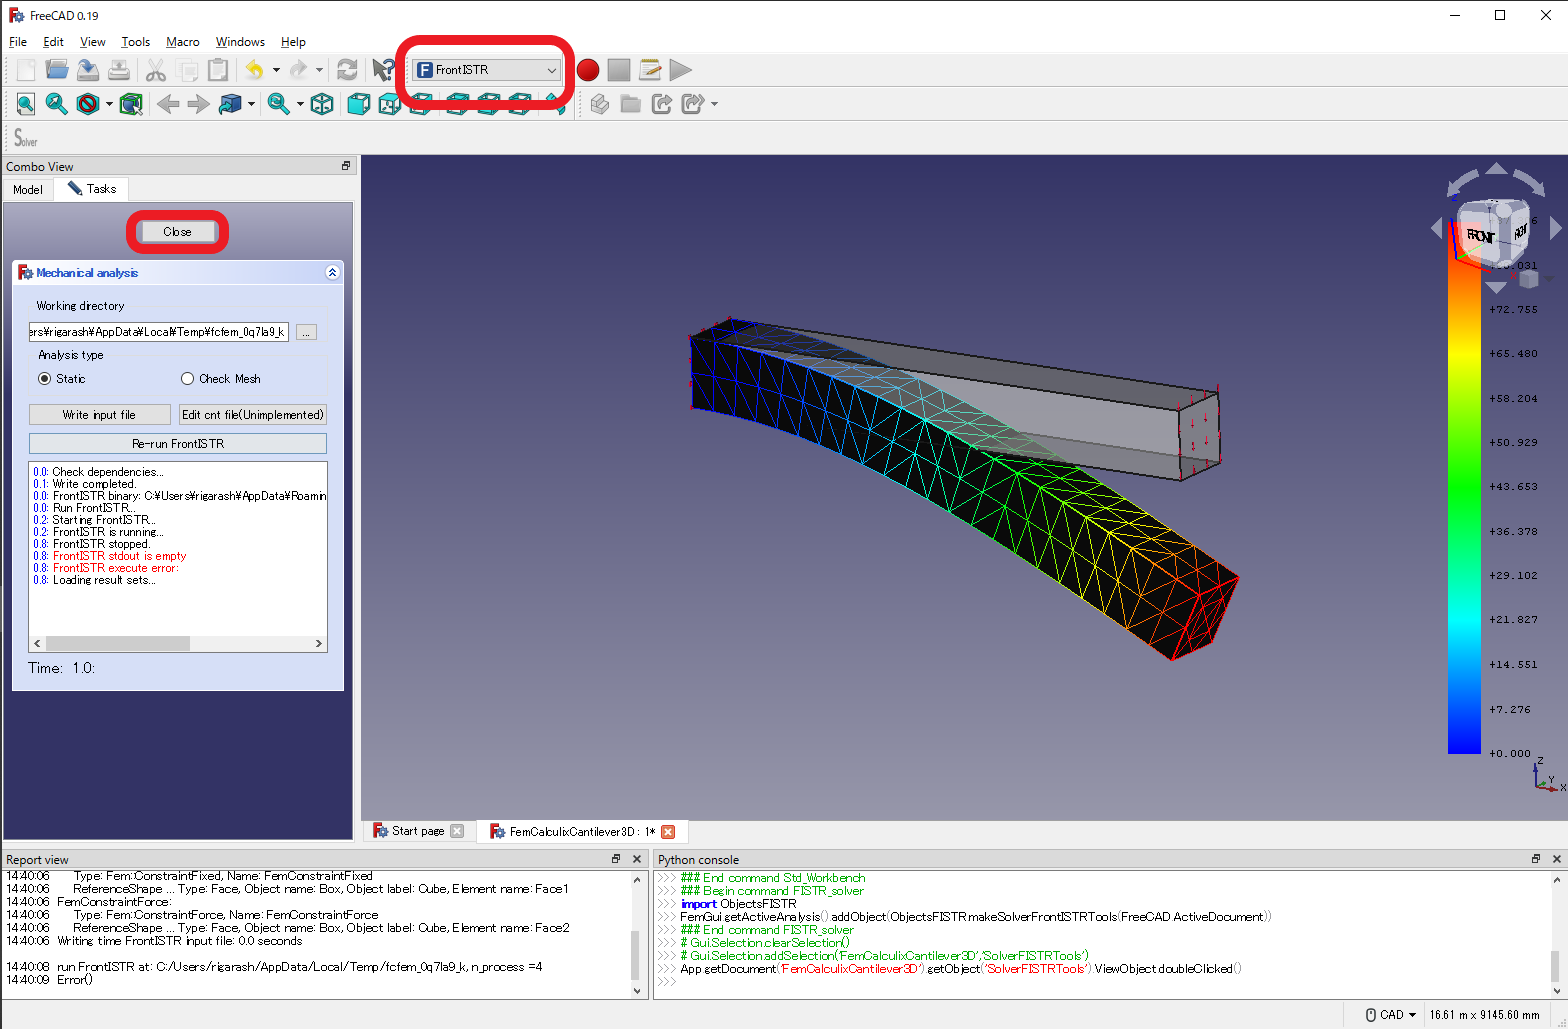
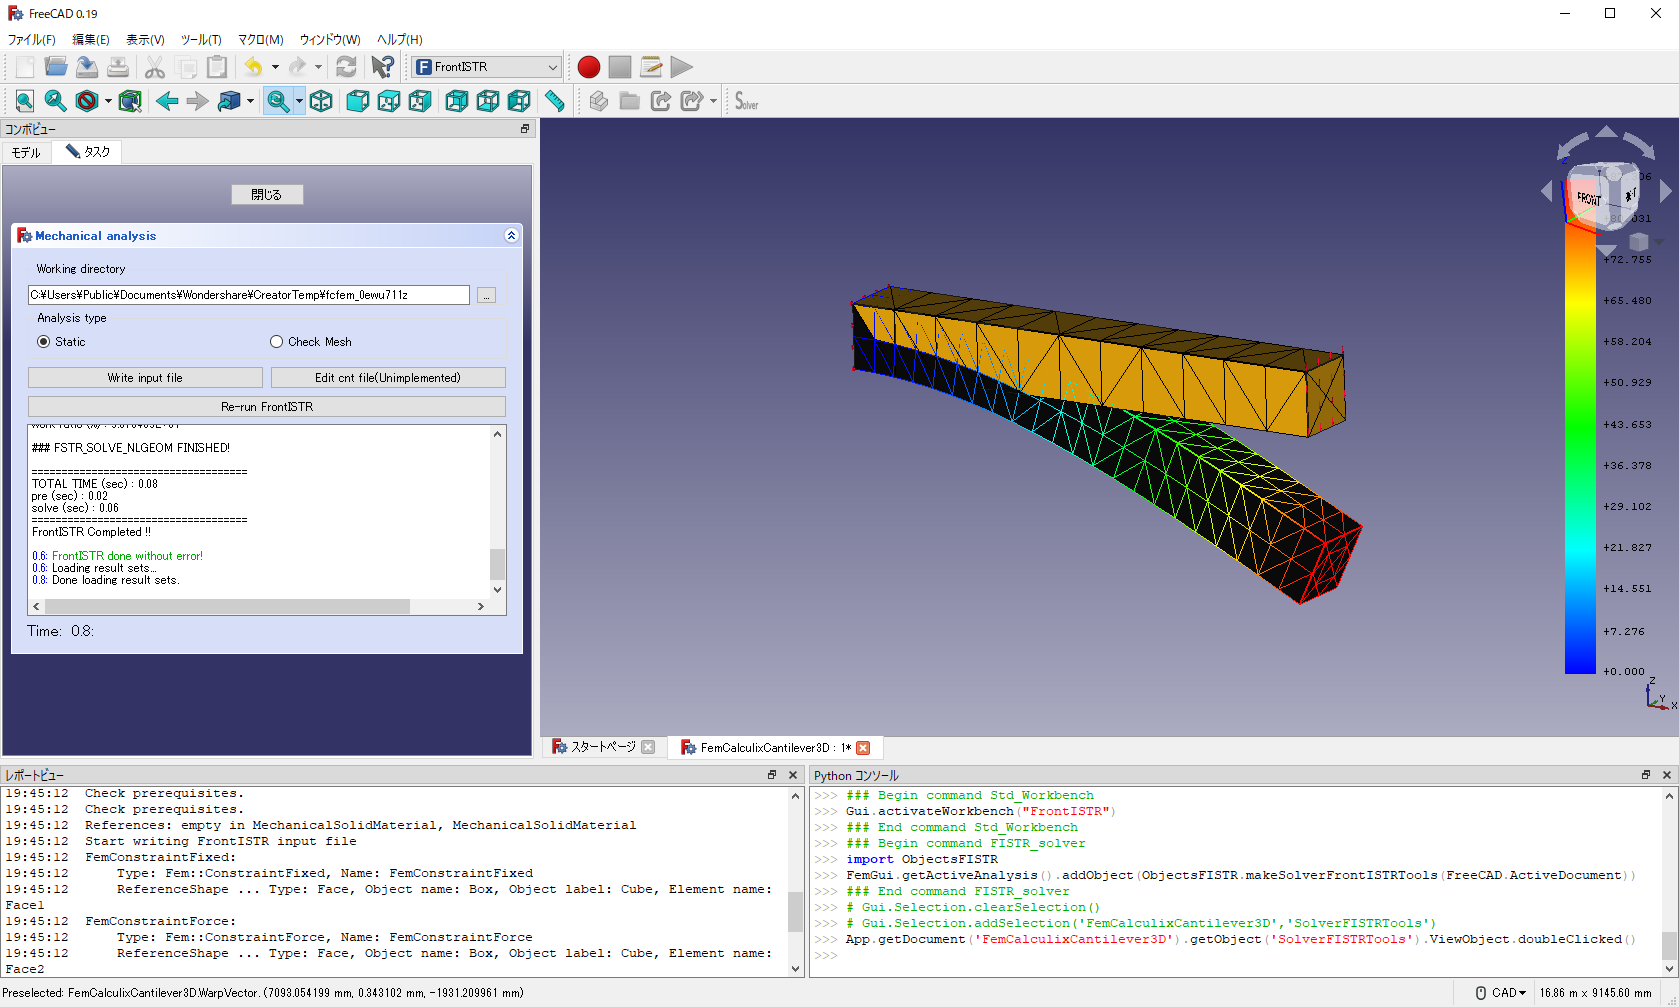
Updated tutorial

diff --git a/tutorial/en/docs/usegui.md b/tutorial/en/docs/usegui.md
@@ -16,7 +16,9 @@ In this section, we will explain how to use the FrontISTR module, using the FEM 
 ![FrontISTR run](./images/5_FrontISTR_run.png) 
 6. If the calculation finishes successfully, it will end with the output as shown in the figure.
 ![FrontISTR result](./images/6_FrontISTR_result.png) 
-7. Open `Box_Mesh_vis_psf.0001.pvtu` in the `Working directory` with [paraview](https://www.paraview.org/) and check the result. It can be confirmed that the results are consistent with the prepared results.
-![FrontISTR result](./images/6b_FrontISTR_result.png) 
-8. If you want to perform a calculation with different analysis conditions, click `Close` on the task to return to 4. and change the workbench from `FrontISTR` to `FEM`. For boundary conditions and properties, you can change the current settings by selecting inside the red circle on the left. You can also add new boundary conditions by selecting the button in the upper red circle. After setting the conditions, the calculation can be performed under different conditions by repeating the procedure from 4.
+7. Close the task of SolverFISTRTools and delete `CCX_Results`. Double click `FISTR_Results` for post-process.
+![FrontISTR result](./images/6b_FrontISTR_result.png)
+8. Control view settings from the task panel of SolverFISTRTools. The folloings is a displacement contour of Von Mises stress.
+![FrontISTR result](./images/6c_FrontISTR_result.png)
+9. If you want to perform a calculation with different analysis conditions, click `Close` on the task to return to 4. and change the workbench from `FrontISTR` to `FEM`. For boundary conditions and properties, you can change the current settings by selecting inside the red circle on the left. You can also add new boundary conditions by selecting the button in the upper red circle. After setting the conditions, the calculation can be performed under different conditions by repeating the procedure from 4.
 ![other boundary conditions](./images/7_other_options.png)

diff --git a/tutorial/ja/docs/usegui.md b/tutorial/ja/docs/usegui.md
@@ -16,7 +16,9 @@ FEM_FrontISTRは、FreeCAD標準のFEMモジュールで作成した解析モデ
 ![FrontISTR run](./images/5_FrontISTR_run.png)
 6. 計算が成功すると、図のような出力で計算が終わる。
 ![FrontISTR result](./images/6_FrontISTR_result.png)
-7. `Working directory`にある`Box_Mesh_vis_psf.0001.pvtu`を[paraview](https://www.paraview.org/)で開き、結果を確認する。用意されている結果と一致していることが確認できる。
+7. SolverFISTRToolsのタスクを閉じ、`CCX_Results`を消去する。解析結果を確認するために`FISTR_Results` をダブルクリックする。
 ![FrontISTR result](./images/6b_FrontISTR_result.png)
-8. 解析条件を変えた計算を行う場合は、タスクの`Close` をクリックして 4. に戻り、ワークベンチを `FrontISTR` から `FEM` に変更する。境界条件や物性については、左の赤丸内を選択することで現在の設定を変更できる。また、上の赤丸内のボタンを選択することで新たな境界条件を付与することもできる。条件の設定後、4. からの手順を再度行うことで別条件での計算が可能である。
+8. SolverFISTRToolsのタスクから、結果表示を制御できる。図はMises応力の変形コンター図である。
+![FrontISTR result](./images/6c_FrontISTR_result.png)
+9. 解析条件を変えた計算を行う場合は、タスクの`Close` をクリックして 4. に戻り、ワークベンチを `FrontISTR` から `FEM` に変更する。境界条件や物性については、左の赤丸内を選択することで現在の設定を変更できる。また、上の赤丸内のボタンを選択することで新たな境界条件を付与することもできる。条件の設定後、4. からの手順を再度行うことで別条件での計算が可能である。
 ![他の境界条件](./images/7_other_options.png)

diff --git a/README.md b/README.md
@@ -35,7 +35,6 @@ FrontISTR(japanese web site): https://www.frontistr.com/
 ### Prerequisites
 
 - [FreeCAD v0.19 or later](https://github.com/FreeCAD/FreeCAD/releases/)
-- [Paraview](https://www.paraview.org/download/)
 
 ### Windows
 
@@ -61,8 +60,8 @@ In preparation.
 4. Click "Write input file"
     - FrontISTR input files are generated in working directory
 5. Click "Run FrontISTR"
-    - FrontISTR starts in parallel and output result files
-6. Open result files for visualization "${work_directory}/${jobname}_vis_psf.*.pvtu" by paraview.
+    - FrontISTR starts in parallel and FISTR_Results object will be created after finishing calculation.
+6. Check FISTR_Results for post processing.
 
 ## Tutorial
 
